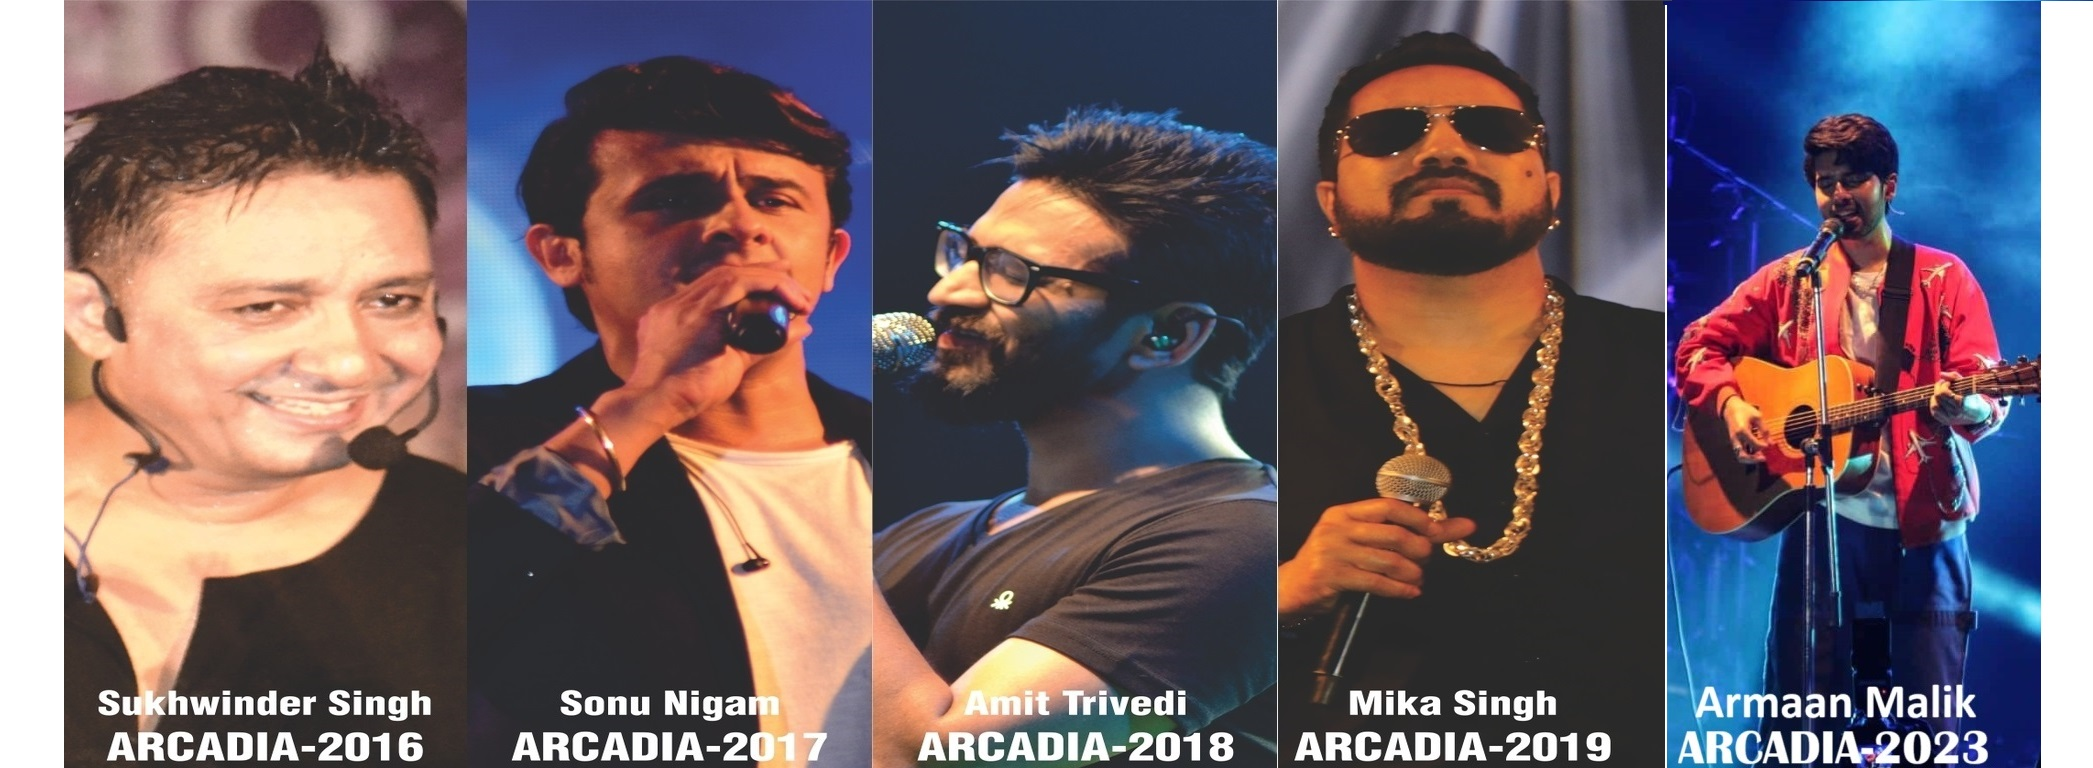
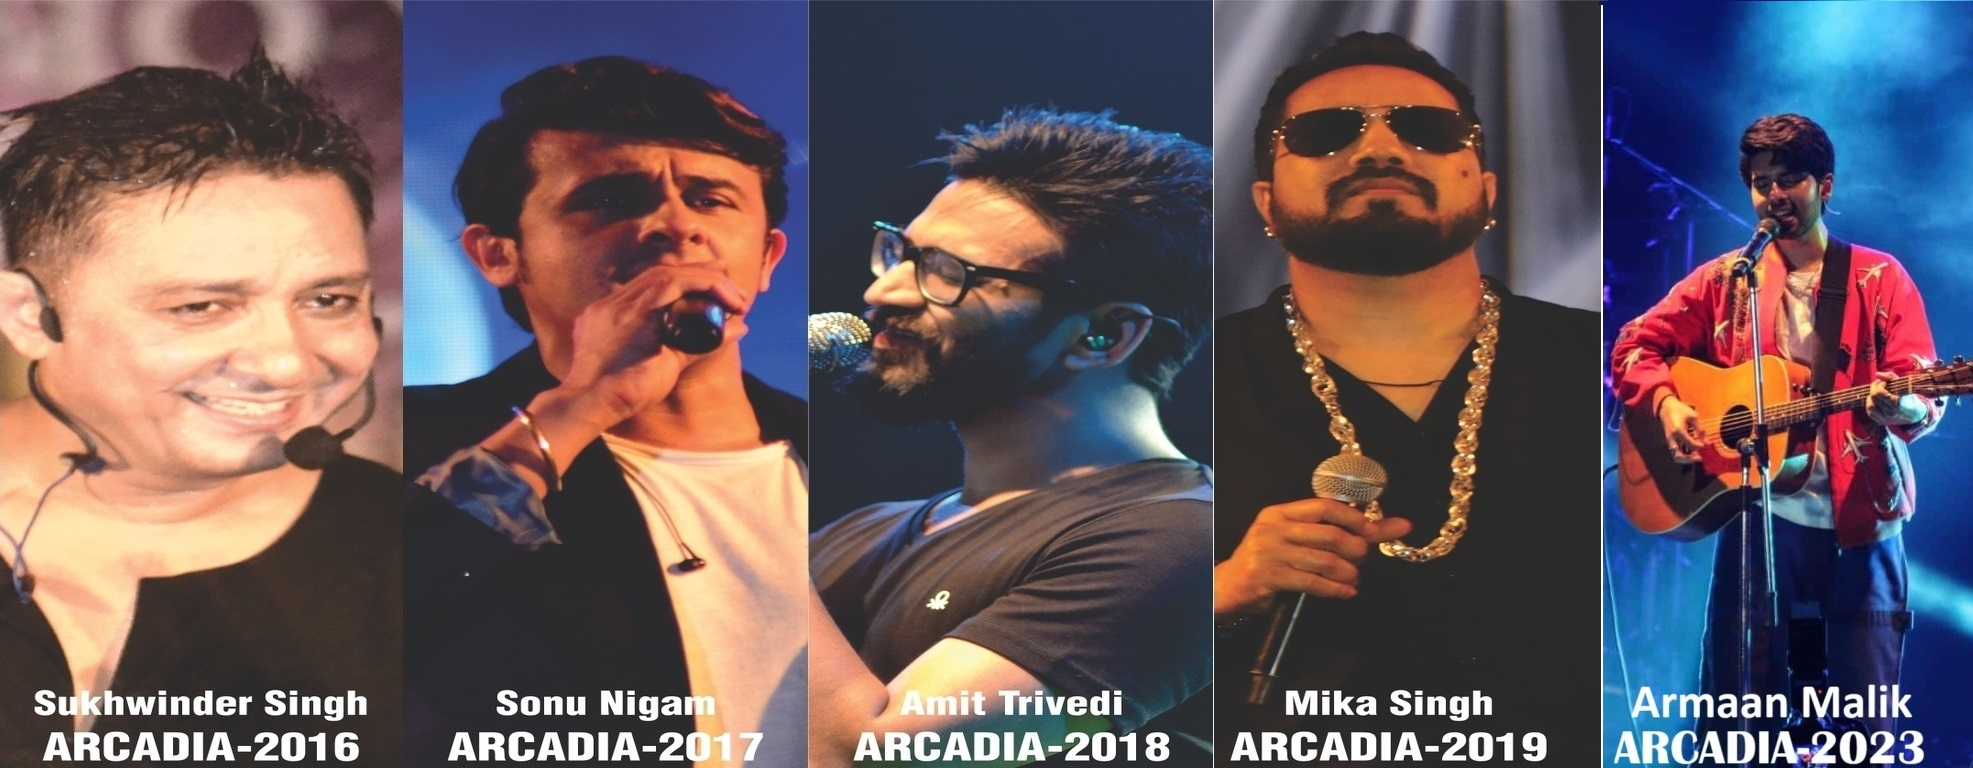
pic update

diff --git a/pages/LifeAOT.html b/pages/LifeAOT.html
@@ -54,8 +54,8 @@
             <div class="info7" id="wp3">
                 <div class="box">
                     <h3>ARCADIA:</h3>
-                    <p>This community brings together students to stare a common platform where they can showcase their talents in dance, drama, music, songs and every other form of performing arts.
-                        Every year community members of ARDOUR organise ‘ARCADIA’ – the most vibrant socio-cultural event of the campus. Over the past years this event has attained an unparalleled prestige across the state with outstanding guest performances by KK (in 2014), Sunidhi Chauhan (in 2015), Sukhwinder Singh (in 2016), Sonu Nigam (in 2017) & Amit Trivedi (2018).</p>
+                    <p>
+                        Every year community members of ARDOUR organise ‘ARCADIA’ – the most vibrant socio-cultural event of the campus. Over the past years this event has attained an unparalleled prestige across the state with outstanding guest performances by KK (in 2014),Sunidhi Chauhan (in 2015),Sukhwinder Singh(in 2016),Sonu Nigam(in 2017),Amit Trivedi (in 2018)& Armaan Malik (in 2023).</p>
                 </div>
                 <div class="image" id="singer">
                     <img src="../assets/images/singer-pic.jpg" alt="">

diff --git a/styles/lifeAot.css b/styles/lifeAot.css
@@ -33,9 +33,10 @@ h3{
     'image';
 }
 
-#singer{
+#singer img{
     width: 100%;
     padding: 2rem;
+    object-fit: contain;
     /* padding: 10px; */
 }
 
